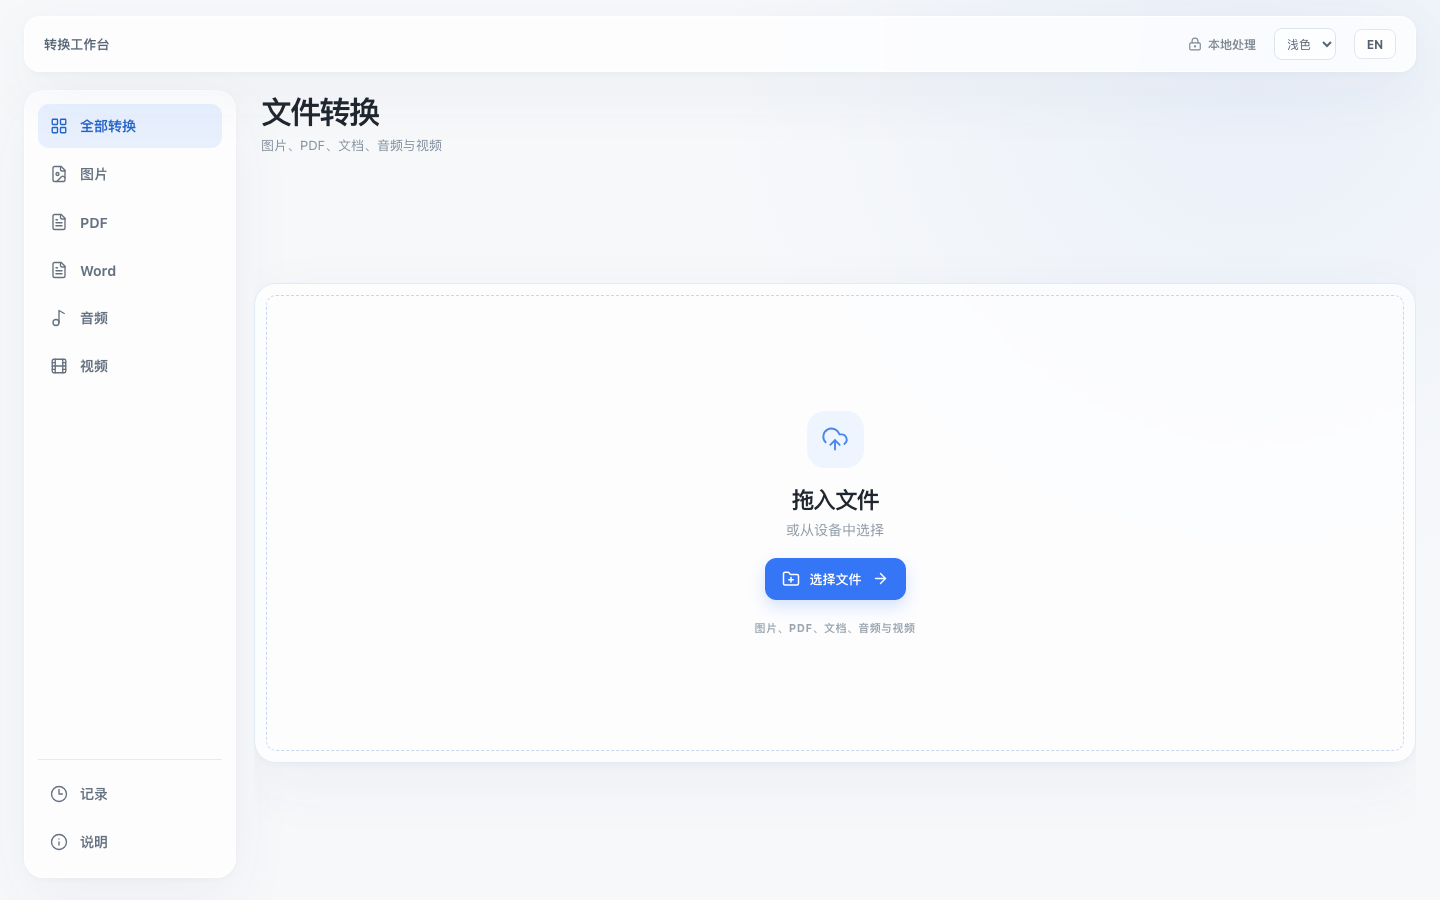
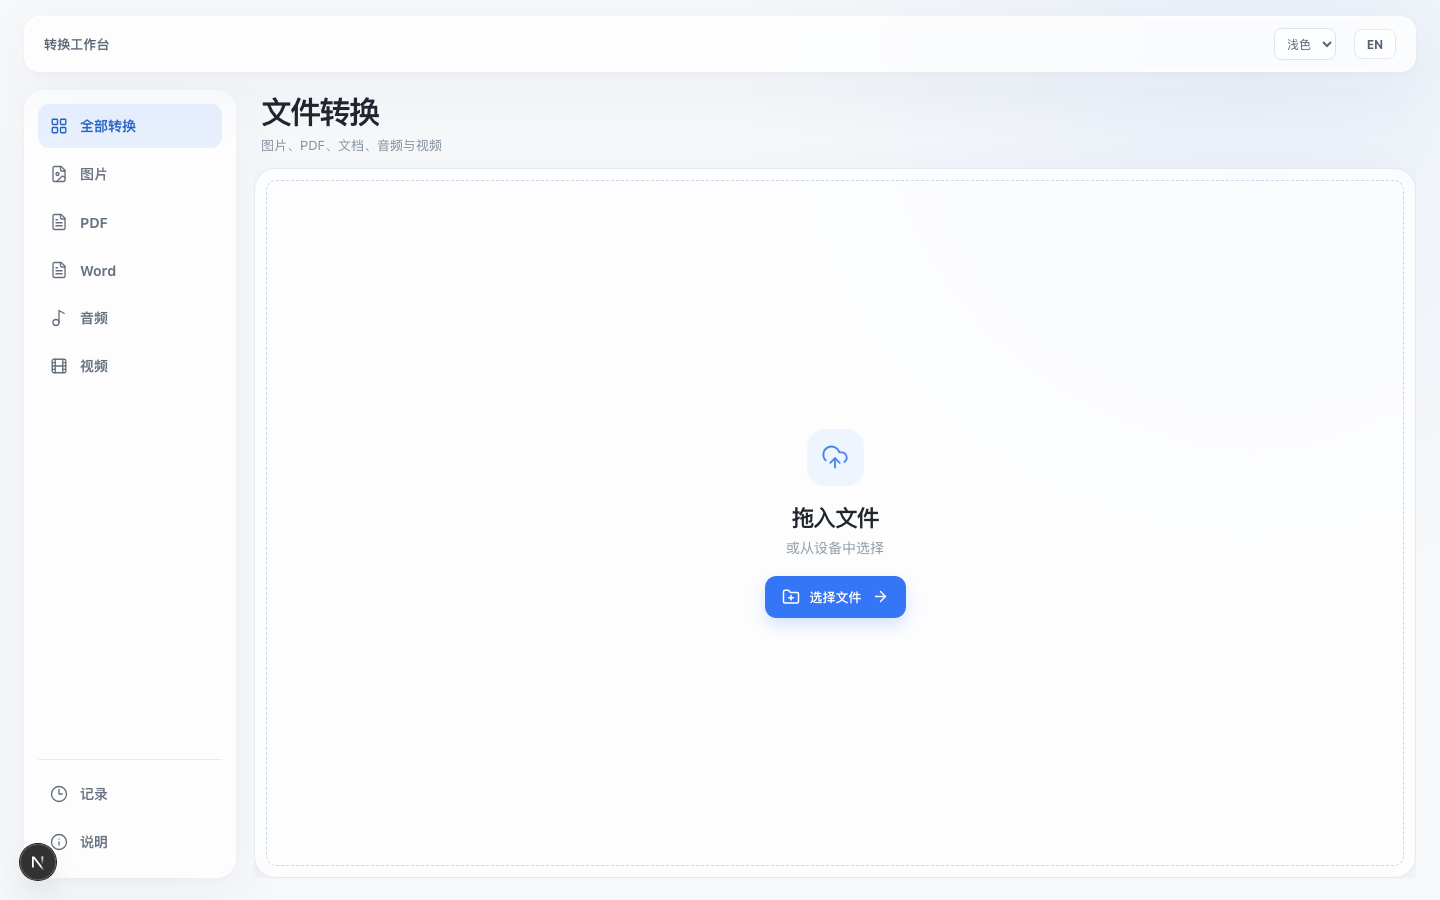
Expand desktop drop area and simplify header

Changed region(s): [[0.5312, 0.4667, 0.625, 0.7156], [0.0, 0.9333, 0.0625, 0.9956], [0.8125, 0.0311, 0.875, 0.0622]]

diff --git a/apps/web/src/app/globals.css b/apps/web/src/app/globals.css
@@ -13,7 +13,6 @@ a{color:inherit;text-decoration:none}
 .site-header nav{display:flex;gap:31px;font-size:13px;font-weight:600;color:#858d96}
 .site-header nav a:hover,.site-header nav .nav-active{color:#27303a}
 .header-end{display:flex;align-items:center;gap:18px}.language-switch{border:1px solid #e1e7ef;background:rgba(255,255,255,.8);border-radius:8px;min-width:42px;height:30px;padding:0 8px;color:#556270;font-size:12px;font-weight:700}.language-switch:hover{background:#eef5ff;color:#3476df}
-.header-private{display:flex;align-items:center;gap:6px;font-size:12px;color:#7e8993;font-weight:600}
 main{position:relative;z-index:1}
 .hero{text-align:center;max-width:760px;margin:0 auto;padding:98px 20px 47px}
 .hero-compact{padding-top:54px;padding-bottom:28px}
@@ -62,7 +61,7 @@ input[type=range]{width:100%;height:5px;margin:9px 0 5px;accent-color:#3479f6;cu
 @keyframes row-in{from{opacity:0;transform:translateY(4px)}to{opacity:1;transform:translateY(0)}}
 @keyframes overlay-in{from{opacity:0}to{opacity:1}}
 @keyframes spin{to{transform:rotate(360deg)}}
-@media(max-width:760px){.site-header{margin-top:12px;width:calc(100% - 24px);padding:0 14px;height:59px}.site-header nav{gap:17px;margin-left:0}.header-private{display:none}.hero{padding:72px 24px 39px}.hero-compact{padding-top:45px;padding-bottom:27px}.hero h1{font-size:51px}.hero-copy{font-size:14px}.drop-zone{height:340px}.workspace-top{padding:22px 20px}.settings-panel{grid-template-columns:1fr 1fr;gap:15px}.setting-note{grid-column:1/-1;border-left:0;border-top:1px solid #e1e9f1;padding:13px 0 0}.workspace-footer{padding:19px 20px;align-items:stretch;flex-direction:column;gap:15px}.progress-side{max-width:none}.footer-actions{justify-content:flex-end}.site-footer{margin:0 20px}.about-section{margin:90px auto}}
+@media(max-width:760px){.site-header{margin-top:12px;width:calc(100% - 24px);padding:0 14px;height:59px}.site-header nav{gap:17px;margin-left:0}.hero{padding:72px 24px 39px}.hero-compact{padding-top:45px;padding-bottom:27px}.hero h1{font-size:51px}.hero-copy{font-size:14px}.drop-zone{height:340px}.workspace-top{padding:22px 20px}.settings-panel{grid-template-columns:1fr 1fr;gap:15px}.setting-note{grid-column:1/-1;border-left:0;border-top:1px solid #e1e9f1;padding:13px 0 0}.workspace-footer{padding:19px 20px;align-items:stretch;flex-direction:column;gap:15px}.progress-side{max-width:none}.footer-actions{justify-content:flex-end}.site-footer{margin:0 20px}.about-section{margin:90px auto}}
 @media(max-width:520px){.site-header nav{font-size:12px}.header-end{gap:0}.hero h1{font-size:45px}.hero-copy{line-height:1.6}.drop-zone{width:calc(100% - 26px)}.workspace{width:calc(100% - 20px);border-radius:19px}.settings-panel{grid-template-columns:1fr;margin:0 10px 12px}.setting-note{grid-column:auto}.settings-extra{gap:10px}.settings-extra .setting-field{flex:1;min-width:100px}.workspace-top h2{font-size:24px}.workspace-top .secondary-button{padding:0 10px}.file-list{margin:0 10px}.file-row{gap:6px;padding:10px}.file-icon{width:30px;height:30px}.file-name{max-width:100px}.status-pill{font-size:10px;padding:5px}.status-pill svg{width:13px}.row-target{max-width:64px;font-size:10px}.row-actions{gap:0}.icon-button{width:25px}.about-section{margin:80px auto 80px}.site-footer{font-size:11px}}
 @media(prefers-reduced-motion:reduce){*,*::before,*::after{scroll-behavior:auto!important;transition:none!important;animation:none!important}}
 
@@ -93,7 +92,7 @@ input[type=range]{width:100%;height:5px;margin:9px 0 5px;accent-color:#3479f6;cu
   .hero,.hero-compact{width:100%;max-width:none;flex:none;text-align:left;margin:0;padding:3px 7px 14px}
   .hero h1,.hero-compact h1{font-size:31px;letter-spacing:-.055em;line-height:1.25;margin:0 0 5px}
   .hero-copy,.hero-compact .hero-copy{display:block;max-width:none;margin:0;color:#82909f;font-size:13px;line-height:1.35}
-  .drop-zone{width:100%;height:min(480px,calc(100% - 20px));max-height:none;min-height:260px;flex:none;margin:auto 0;padding:22px;justify-content:center;border-radius:22px}
+  .drop-zone{width:100%;height:auto;max-height:none;min-height:220px;flex:1;margin:0;padding:22px;justify-content:center;border-radius:22px}
   .drop-zone h2{margin-bottom:4px}.drop-zone p{margin-bottom:18px}.formats-line{margin-top:20px;letter-spacing:.04em}
   .workspace{width:100%;height:auto;max-height:100%;min-height:0;flex:none;display:flex;flex-direction:column;margin:0;border-radius:22px}
   .workspace-top{flex:none;padding:18px 22px 12px}.workspace-top h2{font-size:22px;margin:0 0 2px}.workspace-top p{font-size:12px}

diff --git a/apps/web/src/lib/messages.ts b/apps/web/src/lib/messages.ts
@@ -7,7 +7,7 @@ export const copy = {
     views: { all: "全部转换", image: "图片", pdf: "PDF", word: "Word", audio: "音频", video: "视频", history: "记录", about: "说明" },
     viewTitles: { all: "文件转换", image: "图片转换", pdf: "PDF 转换", word: "Word 转换", audio: "音频转换", video: "视频转换" },
     viewHelp: { all: "图片、PDF、文档、音频与视频", image: "JPG、PNG、WebP、HEIC、AVIF 等", pdf: "PDF 与图片", word: "DOC、DOCX、ODT 或 PDF", audio: "音频文件，或从视频提取音频", video: "MP4、MOV、MKV、WebM、AVI" },
-    convert: "转换", history: "历史", about: "说明", theme: "主题", themeLight: "浅色", themeDark: "深色", themeSystem: "系统", localBadge: "本地处理", serverBadge: "含服务器处理", heroTitle: "文件转换", heroSub: "图片、PDF、Office、音频与视频。处理位置会在转换前标明。",
+    convert: "转换", history: "历史", about: "说明", theme: "主题", themeLight: "浅色", themeDark: "深色", themeSystem: "系统", heroTitle: "文件转换", heroSub: "图片、PDF、Office、音频与视频。处理位置会在转换前标明。",
     dropTitle: "拖入文件", dropSub: "或从设备中选择", chooseFiles: "选择文件", workspace: "工作区", yourFiles: "文件",
     addFiles: "添加文件", readyCount: (n: number) => `${n} 个待转换`, completeCount: (n: number) => `${n} 个已完成`,
     unsupportedCount: (n: number) => `${n} 个不支持`, convertTo: "目标格式", quality: "画质",
@@ -34,7 +34,7 @@ export const copy = {
     views: { all: "All files", image: "Images", pdf: "PDF", word: "Word", audio: "Audio", video: "Video", history: "History", about: "About" },
     viewTitles: { all: "File conversion", image: "Image conversion", pdf: "PDF conversion", word: "Word conversion", audio: "Audio conversion", video: "Video conversion" },
     viewHelp: { all: "Images, PDF, documents, audio and video", image: "JPG, PNG, WebP, HEIC, AVIF and more", pdf: "PDF and images", word: "DOC, DOCX, ODT or PDF", audio: "Audio files, or extract audio from video", video: "MP4, MOV, MKV, WebM and AVI" },
-    convert: "Convert", history: "History", about: "About", theme: "Theme", themeLight: "Light", themeDark: "Dark", themeSystem: "System", localBadge: "Local processing", serverBadge: "Server processing", heroTitle: "File conversion", heroSub: "Images, PDF, Office, audio and video. Processing location is shown before conversion.",
+    convert: "Convert", history: "History", about: "About", theme: "Theme", themeLight: "Light", themeDark: "Dark", themeSystem: "System", heroTitle: "File conversion", heroSub: "Images, PDF, Office, audio and video. Processing location is shown before conversion.",
     dropTitle: "Drop files here", dropSub: "or choose files from your device", chooseFiles: "Choose files", workspace: "Workspace", yourFiles: "Files",
     addFiles: "Add files", readyCount: (n: number) => `${n} ready to convert`, completeCount: (n: number) => `${n} completed`,
     unsupportedCount: (n: number) => `${n} unsupported`, convertTo: "Convert to", quality: "Quality",

diff --git a/apps/web/src/components/workspace.tsx b/apps/web/src/components/workspace.tsx
@@ -383,7 +383,7 @@ export default function Workspace() {
   return <div className="site-shell" onDragEnter={event => { if (event.dataTransfer.types.includes("Files")) { dragDepth.current++; setDragging(true); } }} onDragOver={event => event.preventDefault()} onDragLeave={() => { dragDepth.current--; if (dragDepth.current <= 0) { dragDepth.current = 0; setDragging(false); } }} onDrop={onDrop}>
     <header className="site-header glass">
       <span className="header-context">{language === "zh" ? "转换工作台" : "Conversion workspace"}</span>
-      <div className="header-end"><span className="header-private"><LockKeyhole size={14} /> {allLocal || !supported.length ? t.localBadge : t.serverBadge}</span><select className="theme-select" aria-label={t.theme} value={theme} onChange={event => setTheme(event.target.value as "light" | "dark" | "system")}><option value="light">{t.themeLight}</option><option value="dark">{t.themeDark}</option><option value="system">{t.themeSystem}</option></select><button className="language-switch" type="button" onClick={() => setLanguage(language === "zh" ? "en" : "zh")} aria-label={language === "zh" ? "Switch to English" : "切换为中文"}>{language === "zh" ? "EN" : "中文"}</button></div>
+      <div className="header-end"><select className="theme-select" aria-label={t.theme} value={theme} onChange={event => setTheme(event.target.value as "light" | "dark" | "system")}><option value="light">{t.themeLight}</option><option value="dark">{t.themeDark}</option><option value="system">{t.themeSystem}</option></select><button className="language-switch" type="button" onClick={() => setLanguage(language === "zh" ? "en" : "zh")} aria-label={language === "zh" ? "Switch to English" : "切换为中文"}>{language === "zh" ? "EN" : "中文"}</button></div>
     </header>
 
     <div className="app-layout">
